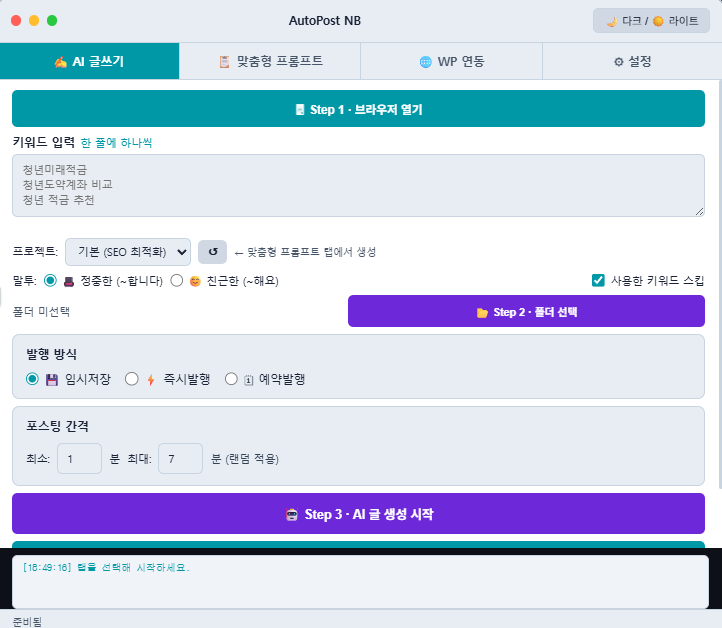
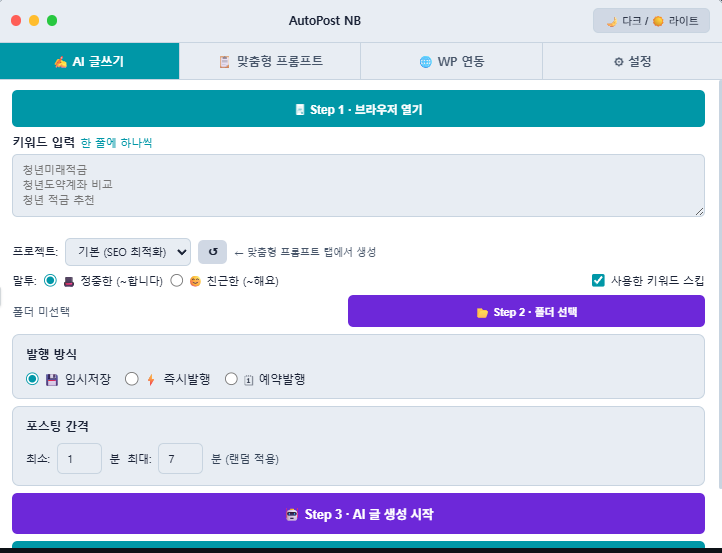
feat: 4기 마감 업데이트 + 플로팅바 강화 + NB 이미지 크롭
- 3기 → 4기 마감 5자리로 전체 텍스트 변경
- 플로팅바: 빨간 마감 배지 + 블링크 애니메이션 추가
- NB 프로그램 이미지: 아래쪽 75px 크롭하여 WP 이미지 비율과 통일

diff --git a/auto-post/wordpress-product-page.html b/auto-post/wordpress-product-page.html
@@ -1221,9 +1221,19 @@ section {
   transition: transform .4s ease;
 }
 .sticky-bottom.visible { transform: translateY(0); }
-.sticky-info { font-size: 14px; }
-.sticky-info strong { font-size: 18px; color: var(--black); }
-.sticky-info span { color: var(--gray); margin-left: 8px; font-size: 13px; }
+.sticky-info { font-size: 14px; display: flex; align-items: center; gap: 10px; }
+.sticky-info > strong { font-size: 18px; color: var(--black); }
+.sticky-sub { color: var(--gray); font-size: 13px; }
+.sticky-badge {
+  background: linear-gradient(135deg, #ff4757, #ff6b81);
+  color: #fff;
+  font-size: 12px; font-weight: 700;
+  padding: 5px 14px;
+  border-radius: 980px;
+  white-space: nowrap;
+  animation: pulse-badge 2s ease-in-out infinite;
+}
+.sticky-badge strong { color: #fff; font-size: 13px; }
 .sticky-btns { display: flex; gap: 10px; }
 .sticky-consult {
   background: var(--light-gray); color: var(--black);
@@ -1267,7 +1277,7 @@ section {
   .program-showcase { grid-template-columns: 1fr; }
   .review-cards { grid-template-columns: 1fr; }
   .final-cta { padding: 80px 24px; }
-  .sticky-info span { display: none; }
+  .sticky-sub { display: none; }
   .sticky-bottom { padding: 10px 16px; }
 }
 
@@ -1286,7 +1296,7 @@ section {
 
 <!-- TOP BANNER -->
 <div class="top-banner">
-  🔥 3기 자리 마감 · <strong class="seats-blink">2자리 남음</strong> · 마감 후 가격 인상 예정
+  🔥 4기 모집 중 · <strong class="seats-blink">5자리 남음</strong> · 마감 후 가격 인상 예정
 </div>
 
 <!-- NAV -->
@@ -1792,9 +1802,9 @@ section {
 
 <!-- FINAL CTA -->
 <div class="final-cta">
-  <span class="eyebrow">🔥 3기 마감까지 단 2자리</span>
+  <span class="eyebrow">🔥 4기 마감까지 단 5자리</span>
   <h2>지금 시작하세요</h2>
-  <p>이 가격은 3기 한정입니다. 마감 후 가격이 오를 수 있습니다.</p>
+  <p>이 가격은 4기 한정입니다. 마감 후 가격이 오를 수 있습니다.</p>
   <div class="btn-group">
     <a href="https://open.kakao.com/o/s7DiPcki" class="btn-primary" target="_blank">💬 카카오톡 문의</a>
     <a href="https://open.kakao.com/o/s7DiPcki" class="btn-secondary" target="_blank">💳 결제 문의</a>
@@ -1815,8 +1825,9 @@ section {
 <!-- STICKY BOTTOM -->
 <div class="sticky-bottom" id="stickyBottom">
   <div class="sticky-info">
+    <span class="sticky-badge">4기 마감 · <strong class="seats-blink">5자리</strong></span>
     <strong>₩389,000~</strong>
-    <span>일회성 결제 · 평생 소유 · 무료 업데이트</span>
+    <span class="sticky-sub">일회성 결제 · 평생 소유</span>
   </div>
   <div class="sticky-btns">
     <a href="https://open.kakao.com/o/s7DiPcki" class="sticky-consult" target="_blank">💬 카카오톡 문의</a>
